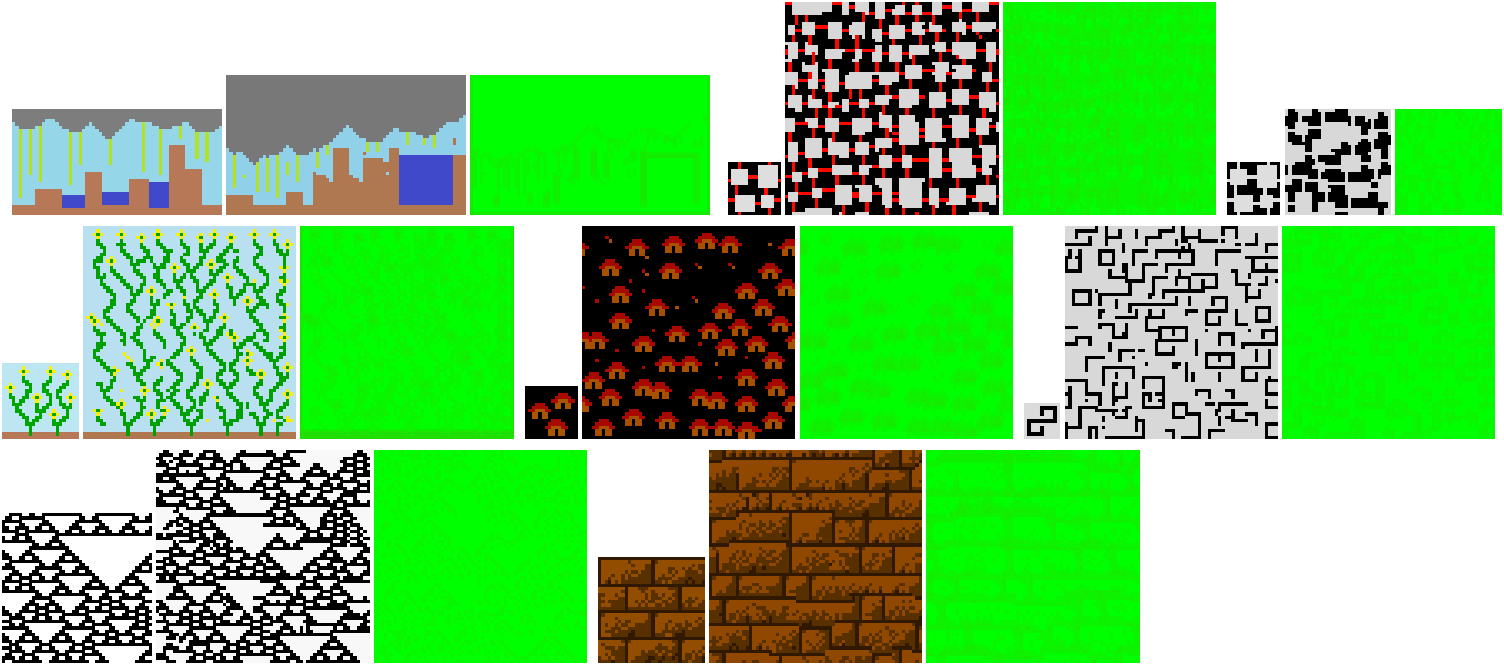
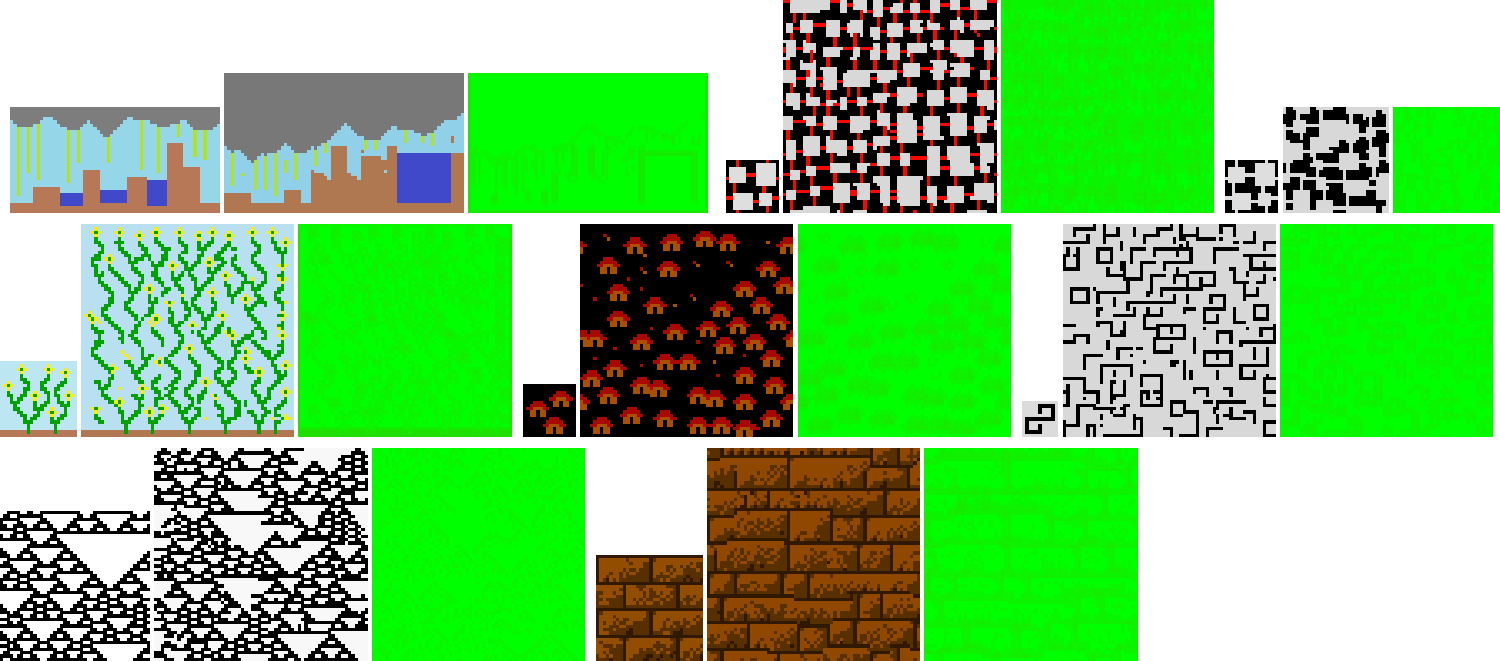
Remove background from preview image

diff --git a/index.html b/index.html
@@ -10,8 +10,8 @@
       content="https://namide.github.io/wave-function-collapse/screenshot.png"
     />
     <meta property="og:image:type" content="image/png" />
-    <meta property="og:image:width" content="1504" />
-    <meta property="og:image:height" content="664" />
+    <meta property="og:image:width" content="1500" />
+    <meta property="og:image:height" content="661" />
   </head>
   <body>
     <div id="app"></div>
